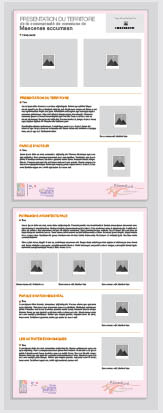
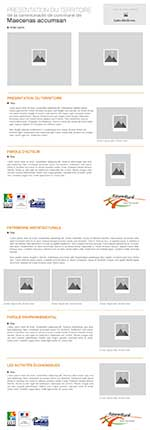
ptites modifs, library, folio, flolio2choice + stylesbo

diff --git a/partials/backoffice/folio.html b/partials/backoffice/folio.html
@@ -76,27 +76,27 @@
                     </div>
                     <!--<a href="#" onclick="return false;" class="ng-marker-toggle">Masquer les reperes</a>-->
                 </div>
-                <p>Vous avez terminé votre document.<br>
+                <p style=margin-bottom:5px;">Vous avez terminé votre document.<br>
                 Exporter le sur votre ordinateur au format pdf</p>
                 <a class="ng-tooltip" title="Exporter PDF" ng-href="api/booklet/{{booklet_id}}/folio/{{folio_id}}/export">
                     <img style="vertical-align: middle;" src="images/pictos/exporter.png" alt="Exporter" title="Exporter"/>
                     <span>Exporter</span>
-                </a> 
-            </div>
-            <div class="link-folio-pf">
-                <div style="background-color: #f0b14e;">
-                    <a href="#" onclick="return false;" ng-click="save()">
-                        <span>Enregistrer et revenir à mon livret</span>
-                        <img src="images/pictos/enregistrer.png" width="32" height="32" alt="Enregitrer" title="Enregistrer"/>
-                    </a>
+                </a>
+                <div class="link-folio-pf">
+                    <div style="background-color: #f0b14e;">
+                        <a href="#" onclick="return false;" ng-click="save()">
+                            <span>Enregistrer et revenir à mon livret</span>
+                            <img src="images/pictos/enregistrer.png" width="32" height="32" alt="Enregitrer" title="Enregistrer"/>
+                        </a>
+                    </div>
+                    <div style="background-color: #000;">
+                        <a ng-href="#/plateforme/booklets/{{booklet.id}}">
+                            <span>Annuler</span>
+                            <img src="images/pictos/annuler.png" width="32" height="32" alt="Annuler" title="Annuler"/>
+                        </a>
+                    </div>
                 </div>
-                <div style="background-color: #000;">
-                    <a ng-href="#/plateforme/booklets/{{booklet.id}}">
-                        <span>Annuler</span>
-                        <img src="images/pictos/annuler.png" width="32" height="32" alt="Annuler" title="Annuler"/>
-                    </a>
-                </div>
-            </div>
+            </div>            
         </div>
     </div>
 </div>

diff --git a/partials/admin/library.html b/partials/admin/library.html
@@ -21,14 +21,14 @@
     </div>
     <div class="library-title">{{library_title}} <button ng-show="source === 'cat' && selected_cat > -1" ng-click="selectCat()">retour a la liste des categories</button></div>
     <div ng-show="source === 'cat' && selected_cat === -1">
-        <ul id="library-cats">
+        <ul style="overflow: auto;" id="library-cats">
             <li ng-repeat="cat in categories| orderBy:'name'" ng-click="selectCat(cat.id)">
                 <p>{{cat.name}} ({{cat.ownLibrary}} images)</p>
             </li>
         </ul>
     </div>
     <div ng-hide="source === 'cat' && selected_cat === -1" style="overflow: auto;">
-        <ul ng-if="view === 'thumb'" id="library-miniature">
+        <ul style="overflow: auto;" ng-if="view === 'thumb'" id="library-miniature">
             <li ng-repeat="image in library| filterLibrary:libraryFilter | startFrom:currentPage * pageSize | limitTo:pageSize">
                 <div><img ng-src="images/{{(source === 'own') ? 'uploaded' : 'library'}}/{{image.filename}}" style="max-width: 95%; max-height: 95%"></div>
                 <span>{{image.name}}</span>

diff --git a/css/styles_bo.css b/css/styles_bo.css
@@ -215,6 +215,7 @@ h2.titre2fond-pres-territoire{
 .left-pres-territoire{
     float: left;
     width: 5%;
+    height: 100%;
 }
 .cadre-pres-territoire{
     padding-left: 20px;
@@ -257,7 +258,7 @@ h2.titre2fond-pres-territoire{
 
 .right-pres-territoire{
     float: left;
-    /* padding-top: 200px; */
+    margin-top: -40px;
     width: 20%;
 }
 
@@ -391,7 +392,7 @@ h1.titre1fond-folio-pf{
 .right-folio-pf{
     float: right;
     z-index: 100;
-    /* padding-top: 200px; */
+    margin-top: -40px;
     width: 140px;
 }
 
@@ -475,7 +476,7 @@ h1.titre1fond-folio-pf{
 .link-folio-pf div img{
     float: right;
     vertical-align: middle;
-    /* width:25%; */
+    width:25%;
     margin: 0;
 }
 
@@ -535,7 +536,7 @@ h1.titre1fond-folio-pf{
 }
 
 .pochetteshow[class~="cfpffullscreen"] {
-    width: 83%;
+    width: 82%;
     height: 100%;
 }
 

diff --git a/partials/backoffice/library.html b/partials/backoffice/library.html
@@ -28,7 +28,7 @@
         </ul>
     </div>
     <div ng-hide="source === 'cat' && selected_cat === -1" style="overflow: auto;">
-        <ul ng-if="view === 'thumb'" id="library-miniature">
+        <ul style="overflow: auto;" ng-if="view === 'thumb'" id="library-miniature">
             <li ng-repeat="image in library| filterLibrary:libraryFilter | startFrom:currentPage*pageSize | limitTo:pageSize">
                 <div><img ng-src="images/{{(source === 'own') ? 'uploaded' : 'library'}}/{{image.filename}}" style="max-width: 95%; max-height: 95%"></div>
                 <span>{{image.name}}</span>

diff --git a/partials/backoffice/folio2choice.html b/partials/backoffice/folio2choice.html
@@ -3,7 +3,7 @@
     <h2 class="titre2fond-pres-territoire">Choisir Votre document</h2>
     <div style="width:100%; display:inline-block;">
         <div class="left-pres-territoire">
-            <p style="height: 200px">Recto</p>
+            <p style="height: 130px; margin: 70px 0;">Recto</p>
             <p>Verso</p>
         </div>
         <div class="cadre-pres-territoire">

diff --git a/css/styles.css b/css/styles.css
@@ -105,7 +105,7 @@ html,body {
 /* Header */
 header {
     height: 120px;
-    margin:0 auto; 
+    /* margin:0 auto; */ 
     width: 1024px;
     overflow:hidden;
     position:relative

diff --git a/css/app.css b/css/app.css
@@ -97,6 +97,9 @@
 }
 #picture-selector > ul > li {
     cursor: pointer;
+    float: left;
+    width: 140px;
+    height: 110px;
 }
 
 .ng-deletable-handler {
